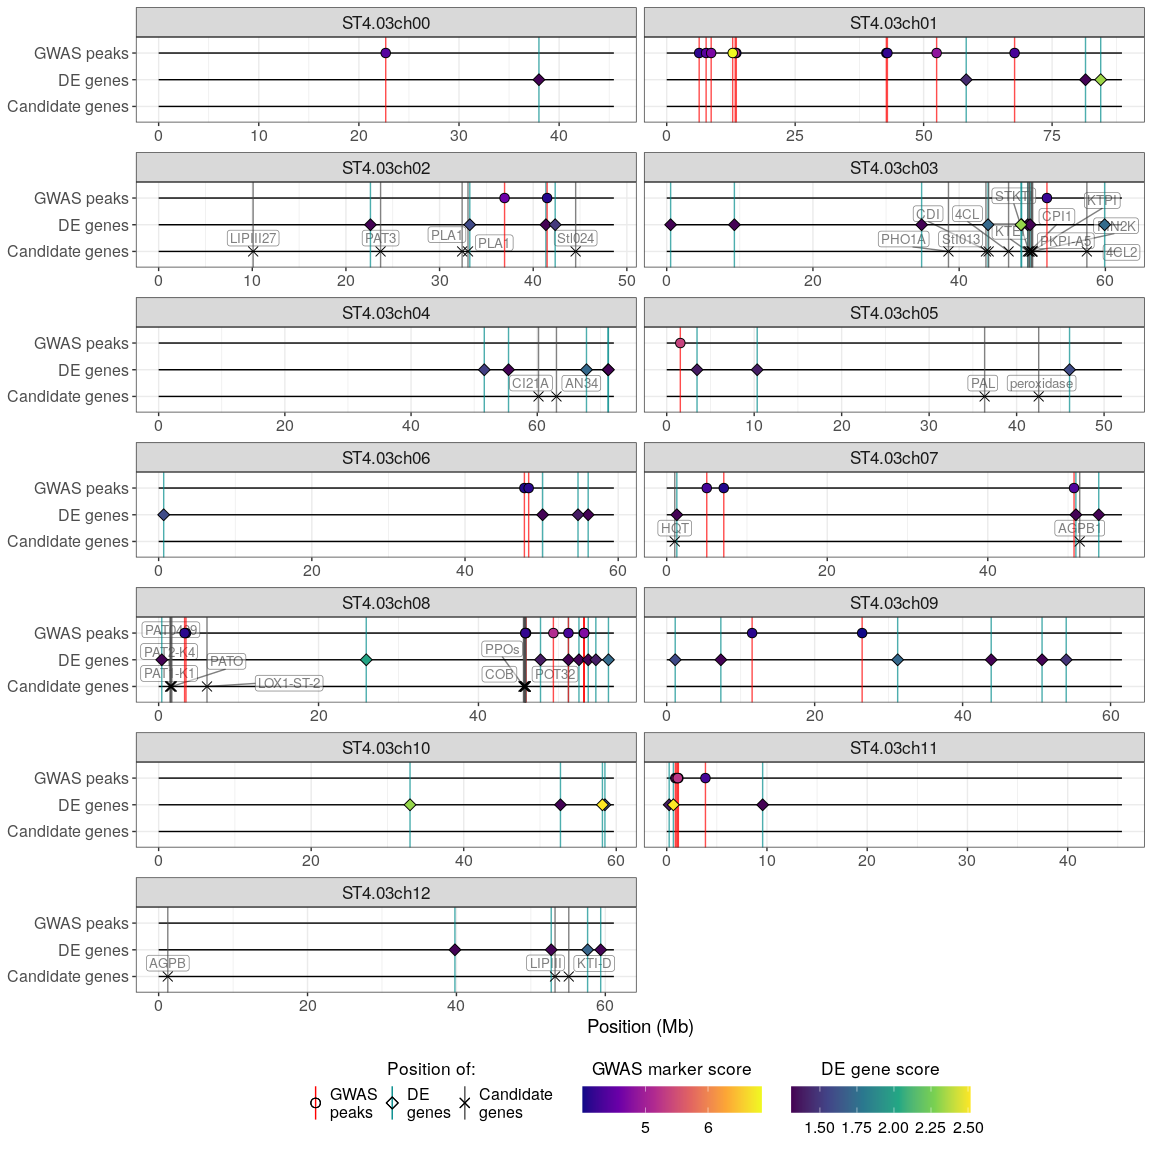
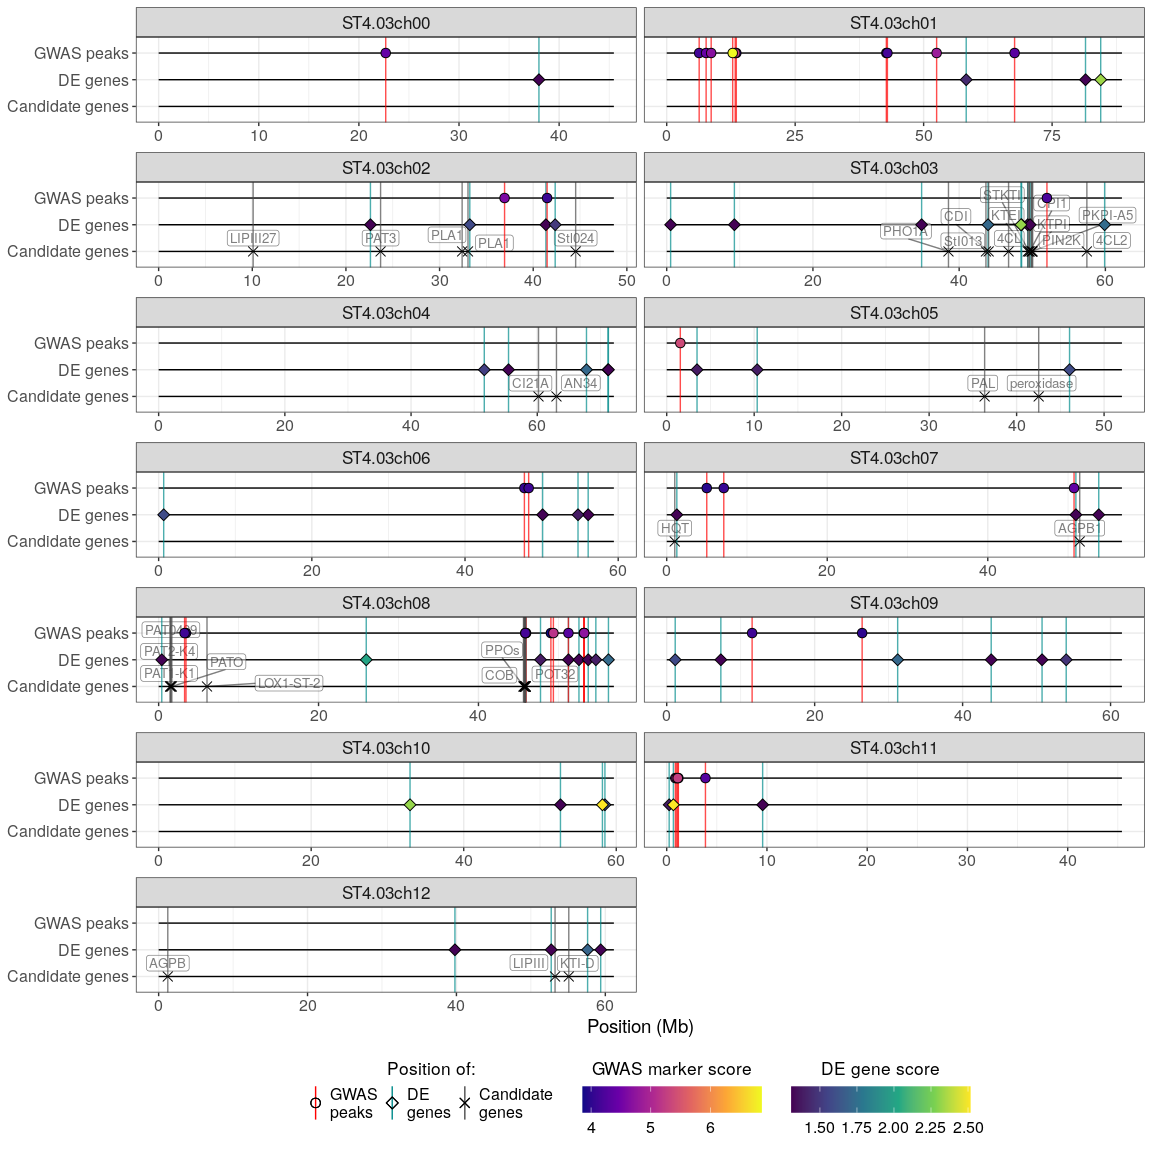
Updated code based on changes made for manuscript revisions

diff --git a/genomics_gwas/6_gwas_gwaspoly.md b/genomics_gwas/6_gwas_gwaspoly.md
@@ -1,7 +1,7 @@
 Genome-Wide Association Analysis with GWASpoly
 ================
 Olivia Angelin-Bonnet
-June 29, 2022
+December 14, 2022
 
 ``` r
 theme_set(theme_bw())
@@ -126,65 +126,65 @@ individual relatedness in the model, so we will compare the following
 settings (referred to in this analysis as ‘population setting’),
 according to Sharma *et al.* (2018) [^1]:
 
--   The naive model: the analysis is performed with accounting for
-    individual relatedness (kinship matrix K set to a matrix of zeros
-    with diagonal elements set to 1) nor population structure (no
-    population structure membership used as covariates);
+- The naive model: the analysis is performed with accounting for
+  individual relatedness (kinship matrix K set to a matrix of zeros with
+  diagonal elements set to 1) nor population structure (no population
+  structure membership used as covariates);
 
--   The K only model: the analysis only accounts for individual
-    relatedness by computing the kinship matrix as the realised
-    relationship matrix *K=MM^T* [^2], where *M* is the genotype matrix
-    (with *n* rows and *m* columns if *n* is the number of samples and
-    *m* the number of markers);
+- The K only model: the analysis only accounts for individual
+  relatedness by computing the kinship matrix as the realised
+  relationship matrix *K=MM^T* [^2], where *M* is the genotype matrix
+  (with *n* rows and *m* columns if *n* is the number of samples and *m*
+  the number of markers);
 
--   The Q only model: the analysis only accounts for population
-    structure by integrating the subpopulation membership of each sample
-    as a covariate in the analysis. We computed the population structure
-    using two methods, namely STRUCTURE and DAPC, so we repeat this
-    model by using the population membership computed with each of these
-    methods. We thereafter distinguish between the two population
-    structure information by using the notation *Q_STRUCTURE* for the
-    analysis that uses the result of STRUCTURE, and *Q_DAPC* for the
-    analysis that uses the result of DAPC;
+- The Q only model: the analysis only accounts for population structure
+  by integrating the subpopulation membership of each sample as a
+  covariate in the analysis. We computed the population structure using
+  two methods, namely STRUCTURE and DAPC, so we repeat this model by
+  using the population membership computed with each of these methods.
+  We thereafter distinguish between the two population structure
+  information by using the notation *Q_STRUCTURE* for the analysis that
+  uses the result of STRUCTURE, and *Q_DAPC* for the analysis that uses
+  the result of DAPC;
 
--   The K+Q model: the analysis accounts for both individual relatedness
-    and population structure, by using the kinship matrix and
-    integrating the samples subpopulation membership as covariates.
-    Again, we run this analysis with the population structure inferred
-    with STRUCTURE (*K + Q_STRUCTURE* model) and with the population
-    structure inferred with DAPC (*K + Q_DAPC* model).
+- The K+Q model: the analysis accounts for both individual relatedness
+  and population structure, by using the kinship matrix and integrating
+  the samples subpopulation membership as covariates. Again, we run this
+  analysis with the population structure inferred with STRUCTURE (*K +
+  Q_STRUCTURE* model) and with the population structure inferred with
+  DAPC (*K + Q_DAPC* model).
 
 In addition to the population setting, the GWAS analysis can be
 performed using one of eight genetic models, that each uses a different
 model for the marker effect on the phenotype:
 
--   `General`: there are no constraints on the effects of the different
-    dosage levels of a marker on the phenotype;
+- `General`: there are no constraints on the effects of the different
+  dosage levels of a marker on the phenotype;
 
--   `additive`: the marker effect on the phenotype is proportional to
-    the dosage of the alternate allele;
+- `additive`: the marker effect on the phenotype is proportional to the
+  dosage of the alternate allele;
 
--   `1-dom-ref`: simple dominant, reference allele is dominant: a dosage
-    of 1 or more for the reference allele (i.e. dosage of 3 or less for
-    the alternate allele) yields the same effect on the phenotype;
+- `1-dom-ref`: simple dominant, reference allele is dominant: a dosage
+  of 1 or more for the reference allele (i.e. dosage of 3 or less for
+  the alternate allele) yields the same effect on the phenotype;
 
--   `1-dom-alt`: simple dominant, alternate allele is dominant: a dosage
-    of 1 or more for the alternate allele yields the same effect on the
-    phenotype;
+- `1-dom-alt`: simple dominant, alternate allele is dominant: a dosage
+  of 1 or more for the alternate allele yields the same effect on the
+  phenotype;
 
--   `2-dom-ref`: duplex dominant, reference allele is dominant: a dosage
-    of 2 or more for the reference allele yields (i.e. dosage of 2 or
-    less for the alternate allele) the same effect on the phenotype;
+- `2-dom-ref`: duplex dominant, reference allele is dominant: a dosage
+  of 2 or more for the reference allele yields (i.e. dosage of 2 or less
+  for the alternate allele) the same effect on the phenotype;
 
--   `2-dom-alt`: duplex dominant, alternate allele is dominant: a dosage
-    of 2 or more for the alternate allele yields the same effect on the
-    phenotype;
+- `2-dom-alt`: duplex dominant, alternate allele is dominant: a dosage
+  of 2 or more for the alternate allele yields the same effect on the
+  phenotype;
 
--   `diplo-general`: all heterozygotes have the same effect (no
-    constraint on this effect);
+- `diplo-general`: all heterozygotes have the same effect (no constraint
+  on this effect);
 
--   `diplo-additive`: all heterozygotes have the same effect, and this
-    effect is halfway between the effects of the homozygotes.
+- `diplo-additive`: all heterozygotes have the same effect, and this
+  effect is halfway between the effects of the homozygotes.
 
 We will run the GWAS analysis of each phenotype for each combination of
 population setting times genetic model.
@@ -438,14 +438,14 @@ infl_fact_df %>%
 
 The best population setting will be selected as follow:
 
--   compute the average inflation factors across the genetic models, for
-    each population setting;
--   Amongst the population settings yielding an average inflation factor
-    above 1, select the population setting with the average inflation
-    factor closest to 1;
--   If all population settings produce an average inflation factor below
-    1, select the population setting with the average inflation factor
-    closest to 1.
+- compute the average inflation factors across the genetic models, for
+  each population setting;
+- Amongst the population settings yielding an average inflation factor
+  above 1, select the population setting with the average inflation
+  factor closest to 1;
+- If all population settings produce an average inflation factor below
+  1, select the population setting with the average inflation factor
+  closest to 1.
 
 ``` r
 best_pop_setting = infl_fact_df %>% 
@@ -493,23 +493,23 @@ total number of markers, an effective number of markers is computed, to
 account for LD between markers.
 
 ``` r
-data2_naive_threshold <- set.threshold(data2_naive, method = "M.eff", level = 0.05)
-save(data2_naive_threshold, file = here("genomics_gwas/processed_data/data2_naive_threshold.RData"))
+data2_naive_threshold <- set.threshold(data2_naive, method = "FDR", level = 0.05)
+save(data2_naive_threshold, file = here("genomics_gwas/processed_data/data2_naive_threshold_fdr.RData"))
 
-data2_K_threshold <- set.threshold(data2_K, method = "M.eff", level = 0.05)
-save(data2_K_threshold, file = here("genomics_gwas/processed_data/data2_K_threshold.RData"))
+data2_K_threshold <- set.threshold(data2_K, method = "FDR", level = 0.05)
+save(data2_K_threshold, file = here("genomics_gwas/processed_data/data2_K_threshold_fdr.RData"))
 
-data2_Qstructure_threshold <- set.threshold(data2_Qstructure, method = "M.eff", level = 0.05)
-save(data2_Qstructure_threshold, file = here("genomics_gwas/processed_data/data2_Qstructure_threshold.RData"))
+data2_Qstructure_threshold <- set.threshold(data2_Qstructure, method = "FDR", level = 0.05)
+save(data2_Qstructure_threshold, file = here("genomics_gwas/processed_data/data2_Qstructure_threshold_fdr.RData"))
 
-data2_Qdapc_threshold <- set.threshold(data2_Qdapc, method = "M.eff", level = 0.05)
-save(data2_Qdapc_threshold, file = here("genomics_gwas/processed_data/data2_Qdapc_threshold.RData"))
+data2_Qdapc_threshold <- set.threshold(data2_Qdapc, method = "FDR", level = 0.05)
+save(data2_Qdapc_threshold, file = here("genomics_gwas/processed_data/data2_Qdapc_threshold_fdr.RData"))
 
-data2_K_Qstructure_threshold <- set.threshold(data2_K_Qstructure, method = "M.eff", level = 0.05)
-save(data2_K_Qstructure_threshold, file = here("genomics_gwas/processed_data/data2_K_Qstructure_threshold.RData"))
+data2_K_Qstructure_threshold <- set.threshold(data2_K_Qstructure, method = "FDR", level = 0.05)
+save(data2_K_Qstructure_threshold, file = here("genomics_gwas/processed_data/data2_K_Qstructure_threshold_fdr.RData"))
 
-data2_K_Qdapc_threshold <- set.threshold(data2_K_Qdapc, method = "M.eff", level = 0.05)
-save(data2_K_Qdapc_threshold, file = here("genomics_gwas/processed_data/data2_K_Qdapc_threshold.RData"))
+data2_K_Qdapc_threshold <- set.threshold(data2_K_Qdapc, method = "FDR", level = 0.05)
+save(data2_K_Qdapc_threshold, file = here("genomics_gwas/processed_data/data2_K_Qdapc_threshold_fdr.RData"))
 ```
 
 ## Retrieving the significant markers
@@ -540,24 +540,50 @@ several genetic models, only the one yielding the highest score will be
 retained.
 
 ``` r
-gwas_peaks_df <- full_join(
-  get(paste0(names(best_pop_setting), "_threshold"))@scores[["bruising_score_mean"]] %>% 
+which_data <- paste0(names(best_pop_setting), "_threshold")
+
+sign_qtls = get.QTL(get(which_data), traits = "bruising_score_mean")
+
+df <- full_join(
+  get(which_data)@scores[["bruising_score_mean"]] %>% 
     as_tibble(rownames = "marker") %>% 
     pivot_longer(cols = -marker,
                  names_to = "genetic_model",
                  values_to = "score"),
-  get(paste0(names(best_pop_setting), "_threshold"))@effects[["bruising_score_mean"]] %>% 
+  get(which_data)@effects[["bruising_score_mean"]] %>% 
     as_tibble(rownames = "marker") %>% 
     pivot_longer(cols = -marker,
                  names_to = "genetic_model",
                  values_to = "effect"),
-  by = c("marker", "genetic_model")) %>% 
-  filter(score > 4) %>% 
+  by = c("marker", "genetic_model"))
+
+## cheap trick to avoid error on column selection if there is no significant marker
+if(nrow(sign_qtls) > 0){
+  df_sign <- sign_qtls %>% 
+    as_tibble() %>%
+    select(marker = Marker,
+           genetic_model = Model) %>%
+    left_join(df, by = c("marker", "genetic_model"))
+} else {
+  df_sign <- df %>%
+    filter(marker == "something")
+}
+
+df_nonsign <- df %>% 
+  filter(!(marker %in% unique(sign_qtls$Marker)))
+
+gwas_peaks_df <- bind_rows(
+  df_sign,
+  df_nonsign
+) %>%
+  mutate(is_significant = marker %in% sign_qtls$Marker) %>% 
+  filter(score > 4 | is_significant) %>%  
   group_by(marker) %>% 
   slice_max(order_by = score, n = 1, with_ties = FALSE) %>% 
-  mutate(chrom = str_extract(marker, ".+(?=_)"),
+  mutate(phenotype = "bruising_score_mean",
+         chrom = str_extract(marker, ".+(?=_)"),
          pos = as.numeric(str_extract(marker, "(?<=_).+")),
-         is_significant = marker %in% significant_qtls$Marker) %>% 
+         is_significant = marker %in% sign_qtls$Marker) %>% 
   arrange(chrom, pos) %>% 
   select(marker, is_significant, score, genetic_model, everything())
 ```

diff --git a/genomics_gwas/5_gwas_phenotype_preprocessing.md b/genomics_gwas/5_gwas_phenotype_preprocessing.md
@@ -1,7 +1,7 @@
 Processing of tuber bruising phenotype
 ================
 Olivia Angelin-Bonnet
-June 29, 2022
+December 14, 2022
 
 ``` r
 theme_set(theme_bw())
@@ -29,38 +29,61 @@ replicate).
 
 ``` r
 bruising_df = read_csv(bruising_file, show_col_types = FALSE) %>% 
-  select(Sample, Rep, starts_with("Bruise")) %>% 
+  select(Genotype = Sample, Rep, starts_with("Bruise")) %>% 
   pivot_longer(cols = starts_with("Bruise"),
                names_to = "Bruise",
                values_to = "bruising_score") %>% 
-  group_by(Sample) %>% 
-  summarise(bruising_score_mean = mean(bruising_score, na.rm = TRUE))
+  mutate(Rep = paste0("Rep", Rep),
+         Genotype = factor(Genotype),
+         Rep = factor(Rep))
 ```
 
-We can assess whether each phenotype is normally distributed using the
+## BLUE values
+
+``` r
+blue_model <- lmer(bruising_score ~ Genotype + (1|Genotype:Rep), 
+                   data = bruising_df)
+
+# summary(blue_model)
+```
+
+``` r
+## extracting fixed effects coefficients
+blues <- fixef(blue_model)
+
+## Tidying up genotype labels
+names(blues) <- str_remove(names(blues), "Genotype")
+
+## Adding intercept coeff to all genotype levels except the baseline
+blues[setdiff(names(blues), "(Intercept)")] <- blues[setdiff(names(blues), "(Intercept)")] + blues["(Intercept)"]
+
+## Rename intercept coeff as baseline genotype
+names(blues)[names(blues) == "(Intercept)"] <- levels(bruising_df$Genotype)[1]
+```
+
+## Normalisation of phenotypes using `bestNormalize`
+
+We can assess whether the BLUE values are normally distributed using the
 Shapiro-Wilk test.
 
 ``` r
-shapiro.test(bruising_df$bruising_score_mean)
+shapiro.test(blues)
 ```
 
     ## 
     ##  Shapiro-Wilk normality test
     ## 
-    ## data:  bruising_df$bruising_score_mean
+    ## data:  blues
     ## W = 0.98149, p-value = 0.03066
 
-The test shows evidence of non-normality.
-
-## Normalisation of phenotypes using `bestNormalize`
-
-The package `bestNormalize` tests different normalisation methods on a
-given dataset and automatically selects the best performing one. It can
-be used as follows:
+The test shows evidence of non-normality. The package `bestNormalize`
+tests different normalisation methods on a given dataset and
+automatically selects the best performing one. It can be used as
+follows:
 
 ``` r
 set.seed(1)
-norm_vals <- bestNormalize(bruising_df$bruising_score_mean)
+norm_vals <- bestNormalize(blues)
 norm_vals
 ```
 
@@ -70,7 +93,7 @@ norm_vals
     ##  - Center+scale: 1.2019
     ##  - Exp(x): 3.1225
     ##  - Log_b(x+a): 2.1275
-    ##  - orderNorm (ORQ): 1.1713
+    ##  - orderNorm (ORQ): 1.1931
     ##  - sqrt(x + a): 1.2806
     ##  - Yeo-Johnson: 1.1538
     ## Estimation method: Out-of-sample via CV with 10 folds and 5 repeats
@@ -83,7 +106,7 @@ norm_vals
     ##  - sd (before standardization) = 0.5031638
 
 ``` r
-tibble(Sample = bruising_df$Sample,
+tibble(Sample = names(norm_vals$x.t),
        bruising_score_mean = norm_vals$x.t) %>% 
   write_csv(here("genomics_gwas/processed_data/pheno_df_trans.csv"))
 ```

diff --git a/README.md b/README.md
@@ -1,2 +1,15 @@
 # Tuber_bruising
-Workflow and scripts to be shared for publication to be placed here. This repository will become public upon publication submission
+
+R code for the publication:
+
+> Olivia Angelin-Bonnet, Susan Thomson, Matthieu Vignes, Patrick J. Biggs, Katrina Monaghan, Rebecca Bloomer, Kathryn Wright, Samantha Baldwin (2022). *Investigating the genetic components of tuber bruising in a breeding population of tetraploid potatoes*. Manuscript submitted for publication.
+
+## Folders
+
+- `genomics_data_preprocessing`: variants filtering and dosage calling with `polyRAD`.
+
+- `genomics_population_structure`: analysis of population structure with `STRUCTURE` and `DAPC`.
+
+- `genomics_gwas`: pre-processing of tuber bruising data and GWAS with `GWASpoly`.
+ 
+- `transcriptomics_differential_expression`: RNAseq data pre-processing, differential expression (DE) with `DESeq2`, and comparison of the GWAS and DE results.

diff --git a/transcriptomics_differential_expression/8_transcriptomics_differential_expression.md b/transcriptomics_differential_expression/8_transcriptomics_differential_expression.md
@@ -1,7 +1,7 @@
 Transcriptomics differential expression
 ================
 Olivia Angelin-Bonnet
-June 29, 2022
+December 14, 2022
 
 ``` r
 theme_set(theme_bw())
